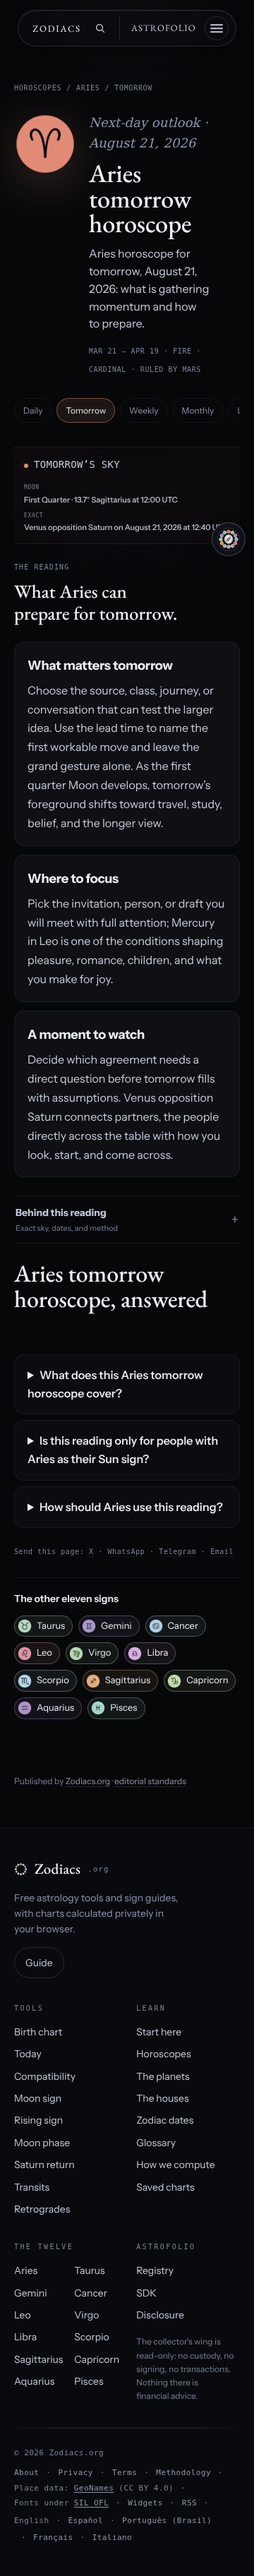
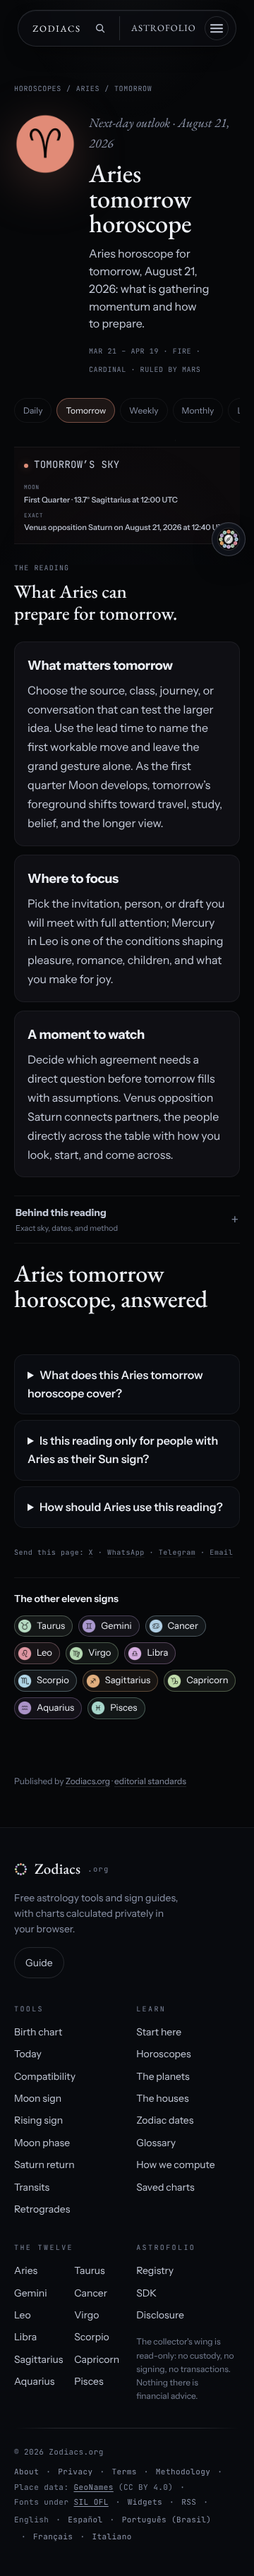
fix(today): reserve active chart reading space

diff --git a/src/lib/phase1-motion-layout-contract.test.ts b/src/lib/phase1-motion-layout-contract.test.ts
@@ -125,6 +125,13 @@ describe('Phase 1 layout and motion contract', () => {
     ]);
     expect(today).toMatch(/\.today-reading__body\s*\{[^}]*display:\s*grid;[^}]*min-height:\s*326px;/u);
     expect(today).toMatch(/@media \(max-width: 480px\)\s*\{\s*\.today-reading__body\s*\{\s*min-height:\s*488px;\s*\}/u);
+    expect(today).toContain("data-living-chart-enabled={livingChartEnabled ? '' : undefined}");
+    expect(today).toMatch(
+      /\.today-page\[data-living-chart-enabled\] \.today-reading__body\s*\{\s*min-height:\s*570px;\s*\}/u,
+    );
+    expect(today).toMatch(
+      /\.today-page\[data-living-chart-enabled\] \.today-returning-chart-placeholder \.today-reading__head h2\s*\{[^}]*overflow:\s*hidden;[^}]*text-overflow:\s*ellipsis;[^}]*white-space:\s*nowrap;/u,
+    );
     expect(today).not.toContain('.today-returning-chart-placeholder { min-height:');
     expect(today).not.toContain(':root[data-today-saved-chart] .today-reading { min-height:');
     expect(program).toMatch(/\.program :global\(\.dfy__body\)\s*\{[^}]*display:\s*grid;[^}]*height:\s*260px;/u);
